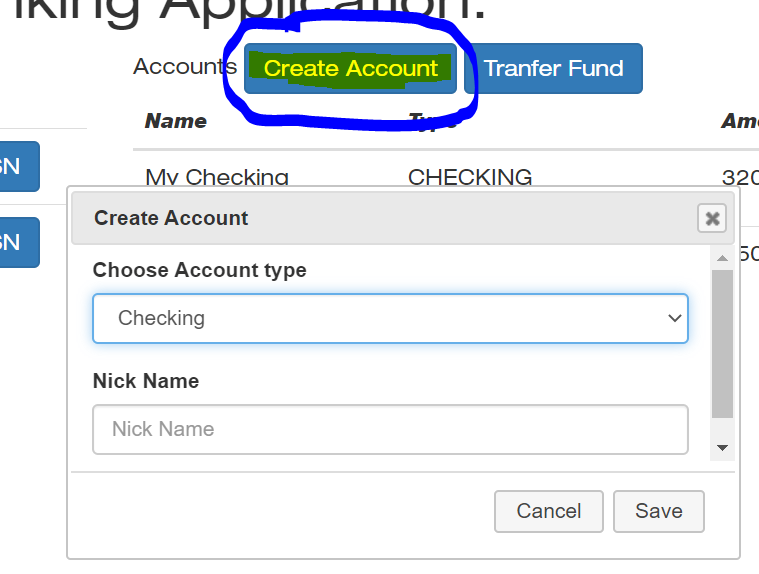
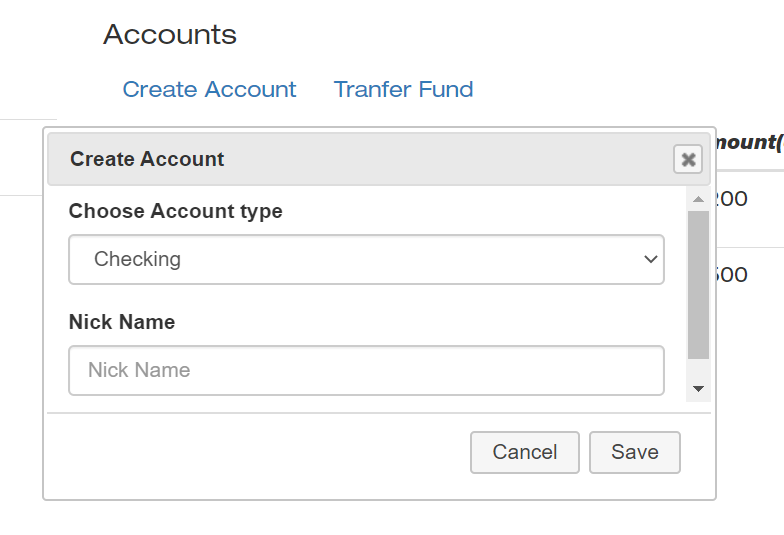
Added bootstrap styling to make view nicer

Changed region(s): [[0.0, 0.0, 1.0, 0.9869]]

diff --git a/src/main/resources/static/home.html b/src/main/resources/static/home.html
@@ -29,7 +29,7 @@
                                         + individualCustomerUrl +"'><td>" 
                                         + value.firstName + "</td><td>" + 
                                         value.lastName + 
-                            "</td><td><button type='button' class='edit-customer-ssn btn btn-primary'>Edit SSN</button></td></tr>";
+                            "</td><td><div class='btn-group'><button type='button' class='edit-customer-ssn btn btn-link'>Edit SSN</button></div></td></tr>";
                         $("#customers_table tbody").append(markup);
                     });
                 });
@@ -48,9 +48,9 @@
                                 + type 
                                 + "</td><td>" 
                                 + amount 
-                                + "</td><td><button type='button' class='delete-account btn btn-primary' id='" 
+                                + "</td><td><button type='button' class='delete-account btn btn-danger' id='" 
                                 + id + 
-                            "'>Delete</button><button type='button' class='edit-account btn btn-primary'>Edit</button></td></tr>";
+                            "'>Delete</button><button type='button' class='edit-account btn btn-link'>Edit</button></td></tr>";
                 $("#accounts_table tbody").append(markup);
             }
 
@@ -265,7 +265,7 @@
     <div class="container">
         <div class="row">
             <div id="customers" class="col-md-4">
-                Customers
+                <h4>Customers</h4>
                 <table id="customers_table"  class="table">
                     <thead>
                     <tr>
@@ -278,9 +278,11 @@
                 </table>
             </div>
             <div id="accounts" class="col-md-8">
-                Accounts
-                <button type='button' class='account-create btn btn-primary' id='account-create'>Create Account</button>
-                <button type='button' class='account-transfer btn btn-primary' id='account-transfer'>Tranfer Fund</button>
+                <h4>Accounts</h4>
+                <div class="btn-group">
+                    <button type='button' class='account-create btn btn-link' id='account-create'>Create Account</button>
+                    <button type='button' class='account-transfer btn btn-link' id='account-transfer'>Tranfer Fund</button>
+                </div>
                 <table id="accounts_table" class="table">
                     <thead>
                     <tr>
